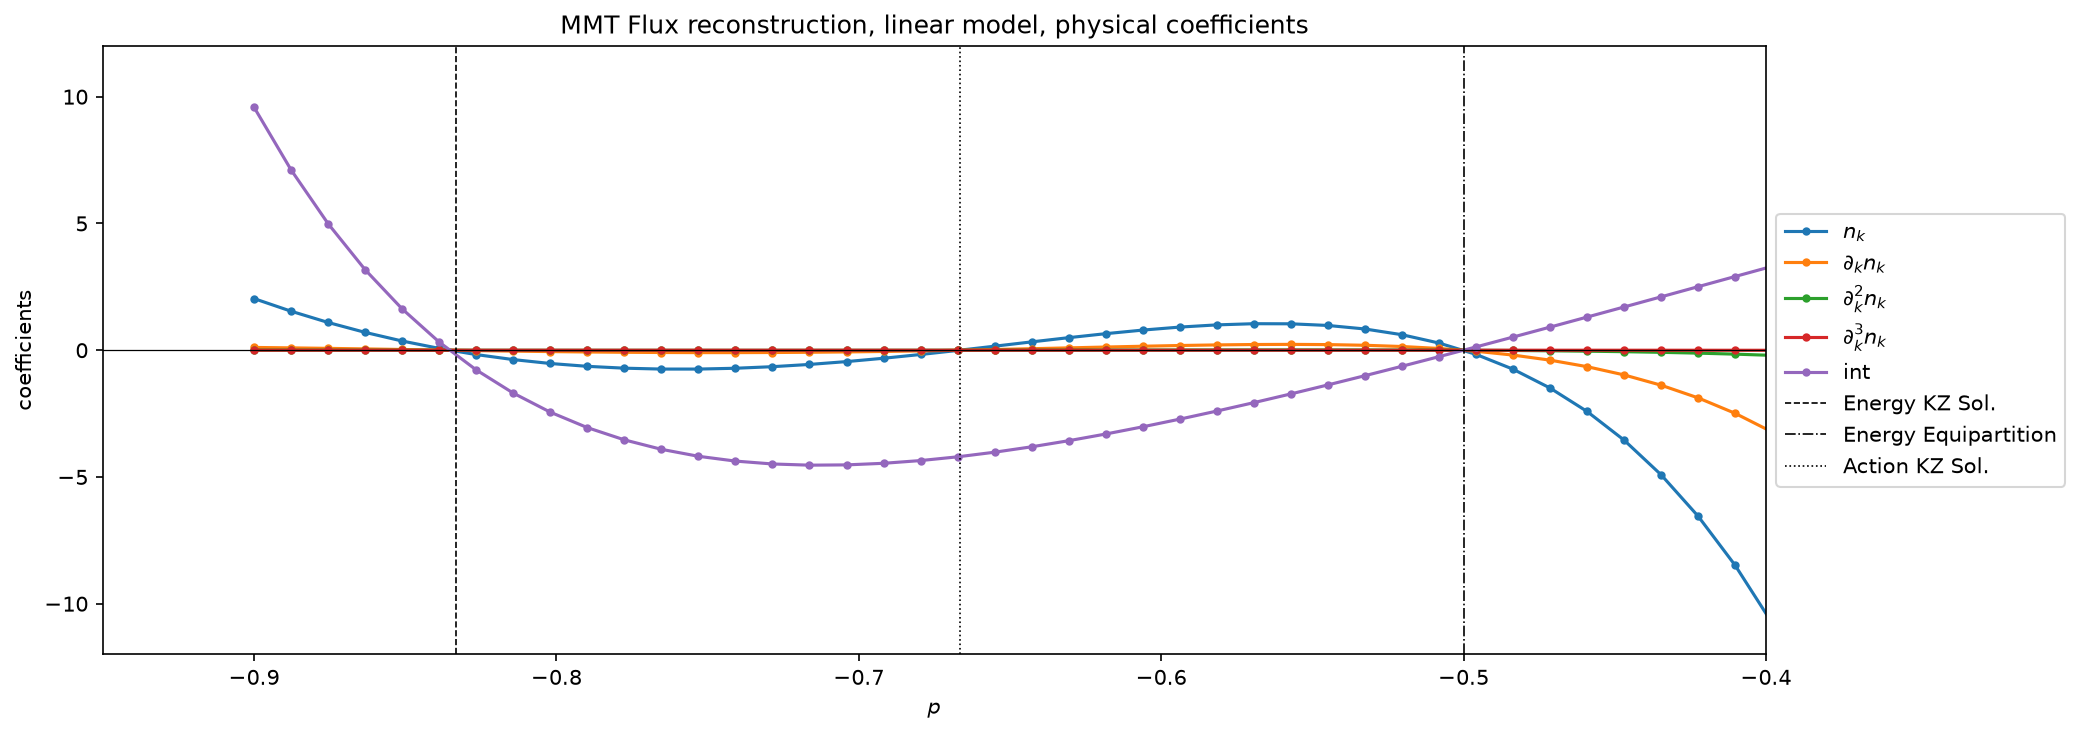
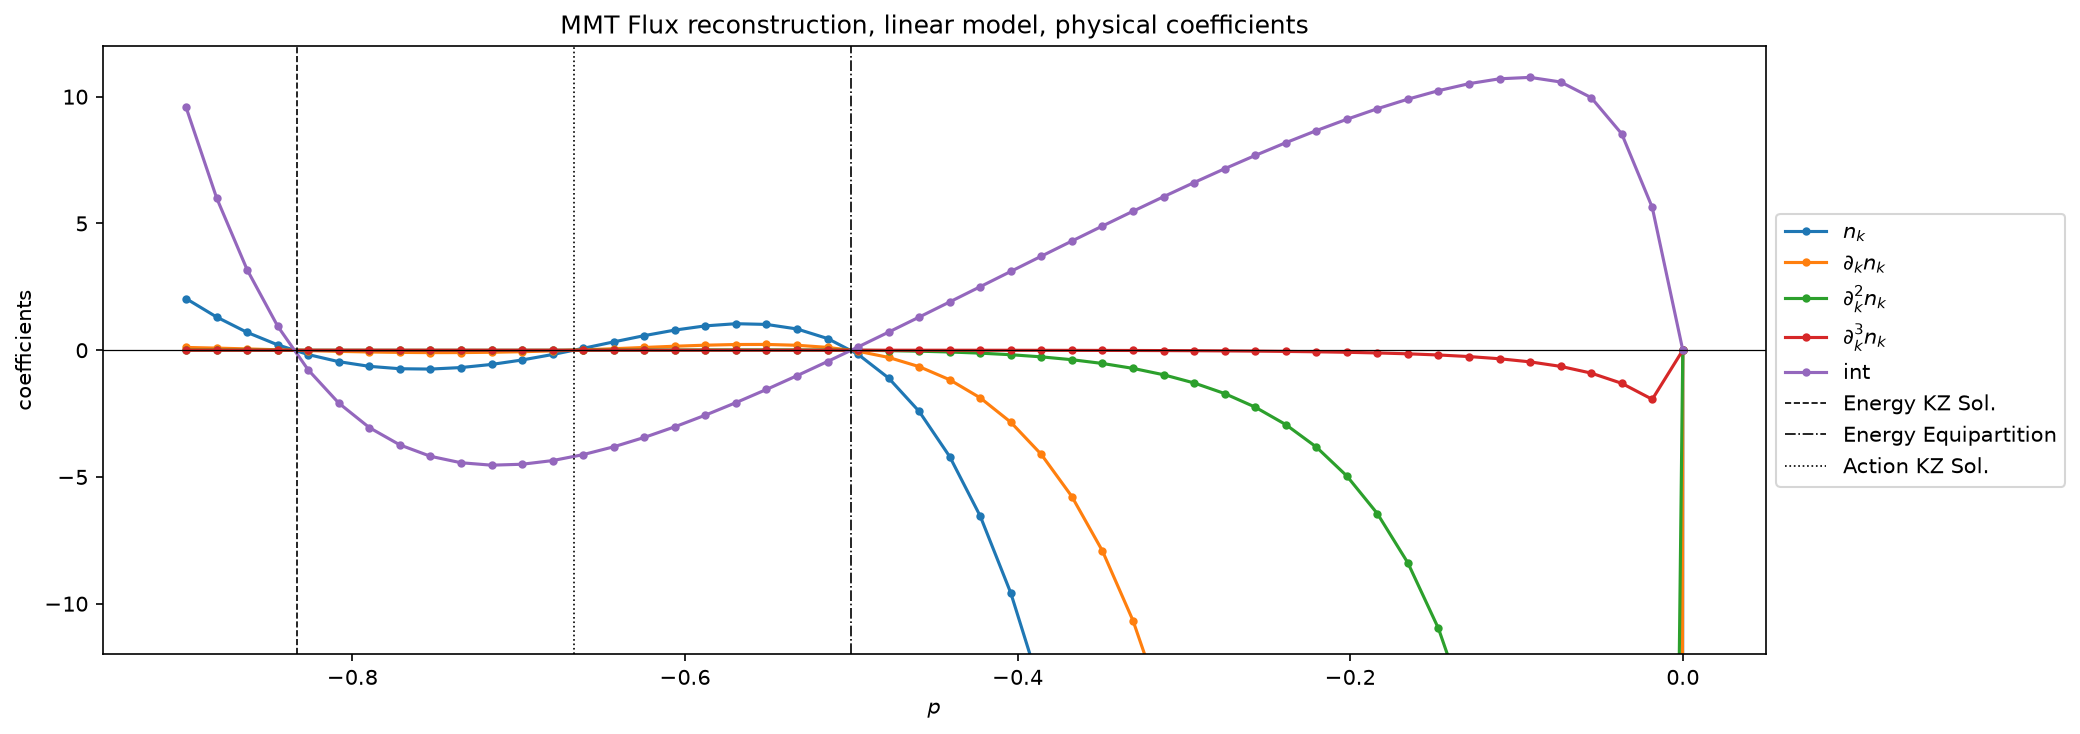
Refactor code structure for improved readability and maintainability

diff --git a/src/physics/linear_operator_library_mmt.py b/src/physics/linear_operator_library_mmt.py
@@ -27,7 +27,7 @@ def fit_operators_at_fixed_p_linear(p, A, k, k_min, k_max, beta=0.25,
     derivs = power_law_derivatives_linear(k, p, max_order, k_min, k_max)
 
     F_true = np.array([
-        flux_ab(power_law, (p, A), [0, kc], [kc, np.inf], beta, "Action", N=N, IntN=IntN)[0]
+        flux_ab(power_law, (p, A), [0, kc], [kc, np.inf], beta, "Energy", N=N, IntN=IntN)[0]
         for kc in k
     ])
 
@@ -79,7 +79,7 @@ def plot_coefficients_vs_p_linear(ps, A, k, k_min, k_max, beta=0.25,
     plt.axvline(-5/6, linestyle="--", linewidth=0.8, color="black", label="Energy KZ Sol.")
     plt.axvline(-1/2, linestyle="-.", linewidth=0.8, color="black", label="Energy Equipartition")
     plt.axvline(-2/3, linestyle=":", linewidth=0.8, color="black", label="Action KZ Sol.")
-    plt.xlim(-0.95, -0.4)
+    plt.xlim(-0.95, 0.05)
     plt.ylim(-12, 12)
     plt.legend(loc = "center left", bbox_to_anchor=(1, 0.5))
 
@@ -119,7 +119,7 @@ def plot_coefficients_physical(ps, A, k, k_min, k_max, beta=0.25,
     plt.axvline(-5/6, linestyle="--", linewidth=0.8, color="black", label="Energy KZ Sol.")
     plt.axvline(-1/2, linestyle="-.", linewidth=0.8, color="black", label="Energy Equipartition")
     plt.axvline(-2/3, linestyle=":", linewidth=0.8, color="black", label="Action KZ Sol.")
-    plt.xlim(-0.95, -0.4)
+    plt.xlim(-0.95, 0.05)
     plt.ylim(-12, 12)
     plt.legend(loc = "center left", bbox_to_anchor=(1, 0.5))
     

diff --git a/main_mmt.py b/main_mmt.py
@@ -86,13 +86,13 @@ print("Coefficienti (solver MMT): ", coef_e_l, "intercetta: ", int_e_l ,"| R^2: 
 print("Coefficienti (modello fisico): ", coef_phys)
 
 plot_coefficients_vs_p_linear(
-    ps = np.linspace(-0.9, -0.3, 50), A = 1, k = np.linspace(0.1, 1.0, 50), beta = 0.25, 
+    ps = np.linspace(-0.9, 0, 50), A = 1, k = np.linspace(0.1, 1.0, 50), beta = 0.25, 
     k_min = config.K_MIN, k_max = config.K_MAX, N=300, IntN=200, max_order=3,
-    save_path="outputs_mmt/coefficients_vs_p_mmt_linear", show=False 
+    save_path="outputs_mmt/coefficients_vs_p_mmt_linear_energy", show=False 
 )
 
 plot_coefficients_physical(
-    ps = np.linspace(-0.9, -0.3, 50), A = 1, k = np.linspace(0.1, 1.0, 50), beta = 0.25, 
+    ps = np.linspace(-0.9, 0, 50), A = 1, k = np.linspace(0.1, 1.0, 50), beta = 0.25, 
     k_min = config.K_MIN, k_max = config.K_MAX, N=300, IntN=200, max_order=3,
-    save_path="outputs_mmt/coefficients_physical_vs_p_mmt_physical", show=False 
+    save_path="outputs_mmt/coefficients_physical_vs_p_mmt_physical_energy", show=False 
 )
